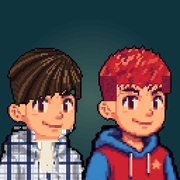
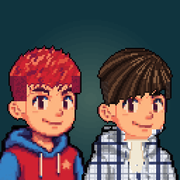
Both boys selectable from the start; Jackson shown first
Claude-Session: https://claude.ai/code/session_01EkPWWdeV8VzjeHVhNXMvPB

diff --git a/index.html b/index.html
@@ -213,9 +213,10 @@ function syncTouch(){const on=new Set(touchBtn.values()),want=new Set();for(cons
 const TB={hero:{x:150,y:134,w:118,h:22},two:{x:274,y:134,w:118,h:22}};let pickHero=-1;
 const inTB=(b,x,y)=>x>=b.x-3&&x<=b.x+b.w+3&&y>=b.y-3&&y<=b.y+b.h+3;
 function tapCanvas(x,y){const r=cv.getBoundingClientRect(),gx=(x-r.left)/r.width*W,gy=(y-r.top)/r.height*H;
- if(state==='title'){const onH=gx<70&&gy>18&&gy<152,onJ=gx>=70&&gx<146&&gy>18&&gy<152;
+ if(state==='title'){const onJ=gx<70&&gy>18&&gy<152,onH=gx>=70&&gx<146&&gy>18&&gy<152;
   if(onJ){pickHero=0;return}
-  if(inTB(TB.hero,gx,gy)||onH){if(unlock&2){if(onH)pickHero=1;else heroKey=true}else lockMsg='FINISH ALL 12 LEVELS TO UNLOCK HARRISON';return}
+  if(onH){pickHero=1;return}
+  if(inTB(TB.hero,gx,gy)){heroKey=true;return}
   if(inTB(TB.two,gx,gy)){if(unlock&1)twoKey=true;else lockMsg='FINISH LEVEL 5 TO UNLOCK TWO PLAYERS';return}}
  anyKey=true}
 let lockMsg='',lockT=0;
@@ -767,8 +768,8 @@ function updEnts(){
   if(hasRelic||L.skate){
    stars=1+(got>=total*.6?1:0)+(got>=total?1:0);score+=players[0].hp*200+(got===total?2000:0);
    if(score>hi){hi=score;store('jackson-hi',hi)}
-   justUnlocked='';const u0=unlock;if(cur>=4)unlock|=1;if(G.t==='X')unlock|=2;
-   if(unlock!==u0){store('jackson-unlock',unlock);justUnlocked=(unlock&2)&&!(u0&2)?'HARRISON UNLOCKED! PRESS C ON THE TITLE SCREEN':'TWO PLAYER MODE UNLOCKED! PRESS 2 ON THE TITLE SCREEN'}
+   justUnlocked='';const u0=unlock;if(cur>=4)unlock|=1;
+   if(unlock!==u0){store('jackson-unlock',unlock);justUnlocked='TWO PLAYER MODE UNLOCKED! PRESS 2 ON THE TITLE SCREEN'}
    for(const q of players)letGo(q);
    if(G.t==='X'){state='win';stateT=0;S('win')}
    else{state='clear';stateT=0;S('clear')}}
@@ -786,7 +787,7 @@ function update(){
  const go=anyKey;anyKey=false;const ng=newGame;newGame=false;const hk=heroKey;heroKey=false;const tk=twoKey;twoKey=false;
  if(state!=='play'){readIn(0);readIn(1)}
  if(state==='title'){cam.x=(sin(tick*.0025-1.5)*.5+.5)*(LW*T-W);cam.y=MAXCY;
-  if(hk||tk||pickHero>=0)lockT=0;if(hk&&(unlock&2)){hero=1-hero;S('on')}
+  if(hk||tk||pickHero>=0)lockT=0;if(hk){hero=1-hero;S('on')}
   if(pickHero>=0){if(pickHero!==hero){hero=pickHero;S('on')}pickHero=-1}
   if(tk&&(unlock&1)){opt2=!opt2;S(opt2?'on':'off')}
   if(go&&stateT>20){score=0;two=opt2;loadLevel(0);state='play';stateT=0}return}
@@ -959,12 +960,12 @@ function render(){
  if(state==='title'){
   g.fillStyle='rgba(6,8,20,.5)';g.fillRect(0,0,W,H);
   const hy=22+Math.round(sin(tick*.04+1.3)*2),jy=32+Math.round(sin(tick*.04)*2);
-  glow(39,hy+60,1.7,hero===1||opt2?.6:.35);glow(107,jy+56,1.7,hero===0||opt2?.6:.35);
-  if(portraitH.complete&&portraitH.naturalWidth)g.drawImage(portraitH,2,hy);
-  if(portrait.complete&&portrait.naturalWidth)g.drawImage(portrait,70,jy);
+  glow(39,jy+56,1.7,hero===0||opt2?.6:.35);glow(107,hy+60,1.7,hero===1||opt2?.6:.35);
+  if(portraitH.complete&&portraitH.naturalWidth)g.drawImage(portraitH,70,hy);
+  if(portrait.complete&&portrait.naturalWidth)g.drawImage(portrait,2,jy);
   const on=i=>opt2||hero===i;
-  textS(g,'HARRISON',8,140,on(1)?'#ffb020':(unlock&2)?'#c8c8d4':'#7a7a88',2);textS(g,'JACKSON',80,140,on(0)?'#ffb020':'#c8c8d4',2);
-  if(!opt2){const mx=hero?39:107;g.fillStyle='#ffb020';g.fillRect(mx-3,152,7,2);g.fillRect(mx-2,154,5,1);g.fillRect(mx-1,155,3,1)}
+  textS(g,'JACKSON',12,140,on(0)?'#ffb020':'#c8c8d4',2);textS(g,'HARRISON',76,140,on(1)?'#ffb020':'#c8c8d4',2);
+  if(!opt2){const mx=hero?107:39;g.fillStyle='#ffb020';g.fillRect(mx-3,152,7,2);g.fillRect(mx-2,154,5,1);g.fillRect(mx-1,155,3,1)}
   const logo=(w,x,y)=>{text(g,w,x+2,y+2,'#c8321e',5);text(g,w,x,y,'#ff9a1e',5);g.save();g.beginPath();g.rect(x-2,y,300,12);g.clip();text(g,w,x,y,'#ffe23a',5);g.restore()};
   logo('JACKSON',150,32);logo('HARRISON',150,60);
   {const A=['.##..','#..#.','#.#..','.#...','#.#.#','#..#.','.##.#'],ax=298,ay=31,q=4;
@@ -975,7 +976,7 @@ function render(){
   const tbtn=(b,label,sub,on,act)=>{g.fillStyle=act?(on?'rgba(60,170,100,.85)':'rgba(30,40,70,.85)'):'rgba(30,30,40,.7)';g.fillRect(b.x,b.y,b.w,b.h);
    g.fillStyle=act?(on?'#9af7b8':'#ffd24a'):'#5a5a6a';g.fillRect(b.x,b.y,b.w,1);g.fillRect(b.x,b.y+b.h-1,b.w,1);g.fillRect(b.x,b.y,1,b.h);g.fillRect(b.x+b.w-1,b.y,1,b.h);
    textS(g,label,b.x+fl((b.w-tw(label,1))/2),b.y+4,act?'#ffffff':'#8a8aa0',1);textS(g,sub,b.x+fl((b.w-tw(sub,1))/2),b.y+13,act?(on?'#d8ffe4':'#ffd24a'):'#6a6a7a',1)};
-  tbtn(TB.hero,(unlock&2)?'HERO: '+NAMES[hero]:'HERO: HARRISON',(unlock&2)?'TAP A BOY (C)':'LOCKED - BEAT LEVEL 12',hero===1,!!(unlock&2));
+  tbtn(TB.hero,'HERO: '+NAMES[hero],'TAP A BOY (C)',false,true);
   tbtn(TB.two,'2 PLAYERS: '+(opt2?'ON':'OFF'),(unlock&1)?'TAP TO SWITCH (2)':'LOCKED - BEAT LEVEL 5',opt2,!!(unlock&1));
   if(lockT>0)textC(g,msg,162,'#ffb0b0',1);
   if(opt2){textC(g,'PLAYER 1 ('+NAMES[hero]+'): ARROW KEYS, UP TO JUMP  -  LEFT TOUCH BUTTONS',176,'#ffd24a',1);textC(g,'PLAYER 2 ('+NAMES[1-hero]+'): W A S D KEYS, W TO JUMP  -  RIGHT TOUCH BUTTONS',186,'#7af0a0',1)}
